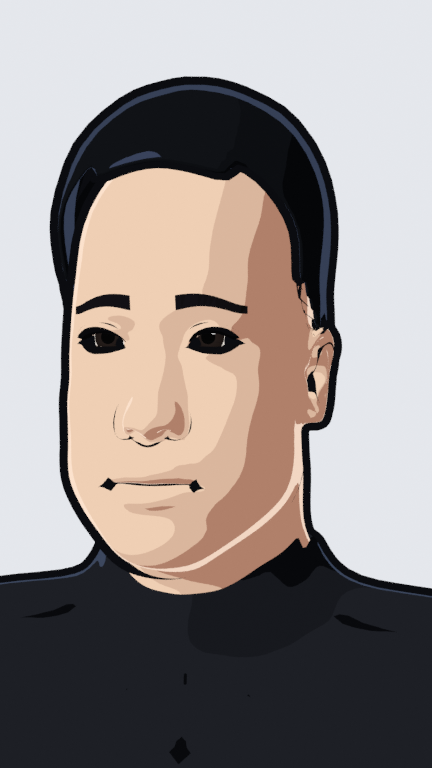
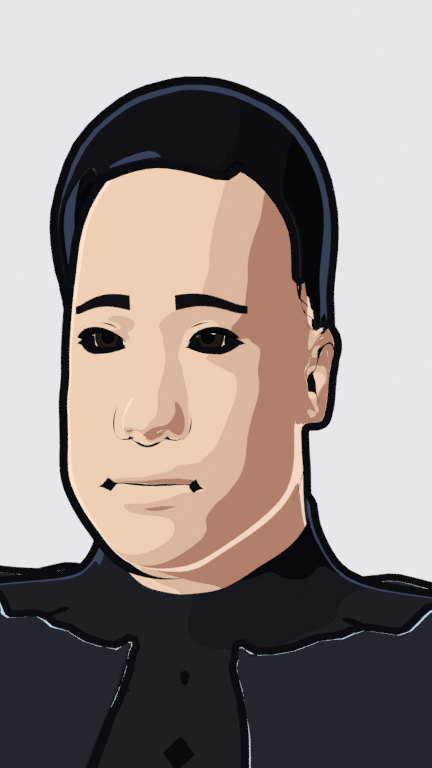
Hero: long black coat back on, bigger fighter build underneath
Stronger muscle target, wider V-taper, thicker arms; dim cool rim on dark coats.

Claude-Session: https://claude.ai/code/session_01RmZcNKw4UE8v1k2Jyijr8e

diff --git a/lookdev/character_mh.py b/lookdev/character_mh.py
@@ -29,7 +29,7 @@ BODY = {
                "male-young-averagemuscle-averageweight-maxheight.target": 0.7,
                "male-young-averagemuscle-averageweight-idealproportions.target": 1.0},
     "m_muscle": {"asian-male-young.target": 0.75, "caucasian-male-young.target": 0.25,
-                 "universal-male-young-maxmuscle-averageweight.target": 1.15,
+                 "universal-male-young-maxmuscle-averageweight.target": 1.4,
                  "universal-male-young-averagemuscle-minweight.target": 0.55,
                  "male-young-averagemuscle-averageweight-maxheight.target": 0.7,
                  "male-young-averagemuscle-averageweight-idealproportions.target": 1.0},
@@ -49,7 +49,8 @@ HERO = dict(body="m_lean", height=1.9, skin=("#efcfb4", "#b0806a"), hair="slick"
             legs="trousers", leg_col=("#2b2e35", "#0b0c10"), shoes=("#141416", "#3a3236"), brows="#121014", iris="#2a2220")
 
 # the lead's fighter build (only when build() is given HERO itself): webtoon muscle anatomy
-HERO_LOOK = dict(body="m_muscle", vtaper=True, sleeves="short", crease=0.012)
+HERO_LOOK = dict(body="m_muscle", vtaper=True, crease=0.012, turtleneck=True,
+                 coat=("#23262c", "#090b0e"), hem=0.36, open_skirt=True)   # his long black coat, over a fighter's body
 
 def set_interp(idblock, kind="LINEAR", data_path=None):
     """Force interpolation on an ID's keyframes (Blender 5 ignores the new-key preference in background mode)."""
@@ -323,8 +324,8 @@ def build(coll, location=(0, 0, 0), style=None, pose_mode="walk", heading=0.0):
         def sx(z):   # torso width factor by height
             if z < waist - 0.12: return 1.0
             if z < waist: return 1.0 - 0.07 * (z - (waist - 0.12)) / 0.12
-            if z < chest: return 0.93 + 0.19 * (z - waist) / max(chest - waist, 1e-3)
-            return 1.12 - 0.12 * min(1.0, (z - chest) / max(nk - chest, 1e-3))
+            if z < chest: return 0.93 + 0.23 * (z - waist) / max(chest - waist, 1e-3)
+            return 1.16 - 0.14 * min(1.0, (z - chest) / max(nk - chest, 1e-3))
         for i, v in enumerate(V):
             b = dm.get(i, "")
             if b.startswith(torso):
@@ -340,7 +341,7 @@ def build(coll, location=(0, 0, 0), style=None, pose_mode="walk", heading=0.0):
                 b = dm.get(i, "")
                 if not b.endswith("." + side) or not b.startswith(("upperarm", "lowerarm")):
                     continue
-                a0, a1, gain = (sh_, el, 0.3) if b.startswith("upperarm") else (el, wr, 0.2)
+                a0, a1, gain = (sh_, el, 0.38) if b.startswith("upperarm") else (el, wr, 0.24)
                 ax = a1 - a0; t = max(0.0, min(1.0, (v - a0).dot(ax) / ax.length_squared))
                 bulge = gain * math.sin(math.pi * min(1.0, t * 1.15)) ** 0.7     # belly of the muscle mid-segment
                 foot = a0 + ax * t; r = v - foot
@@ -409,7 +410,8 @@ def build(coll, location=(0, 0, 0), style=None, pose_mode="walk", heading=0.0):
 
     # --- coat / jacket
     if st.get("coat"):
-        COAT = cel(st["coat"][0], st["coat"][1], rim="#d6efff", name="coat")
+        dark = sum(lin(st["coat"][0])[:3]) < 0.3
+        COAT = cel(st["coat"][0], st["coat"][1], rim="#56668a" if dark else "#d6efff", rim_amt=0.6 if dark else 0.8, name="coat")
         def open_front(f):
             c = sum((V[i] for i in f), Vector()) / len(f)
             return c.y < -0.02 and c.z > sternum_z - 0.13 and abs(c.x) < 0.012 + max(0.0, sternum_z - c.z) * 0.22
